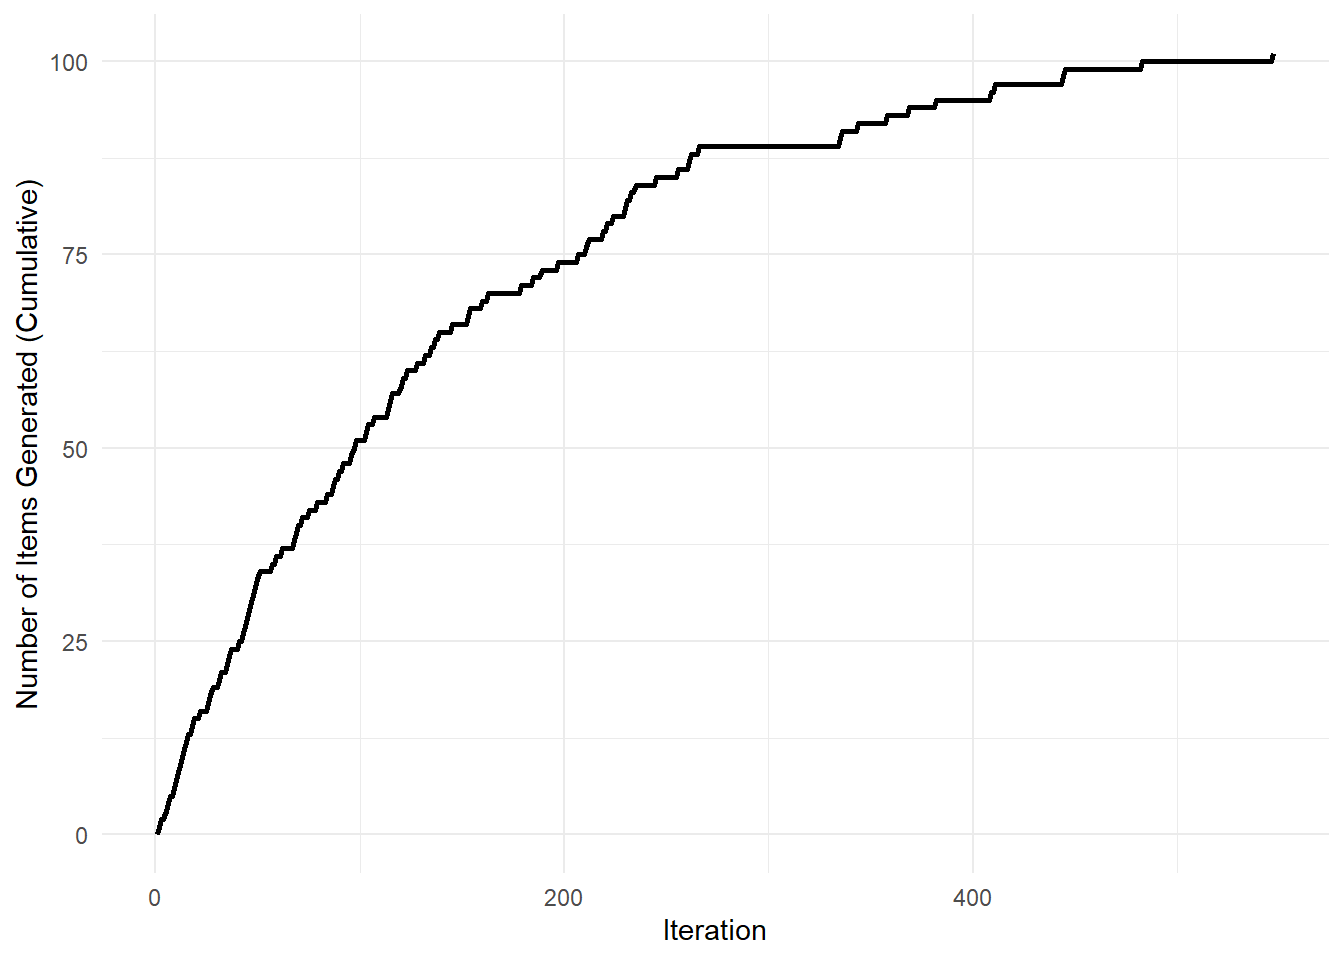
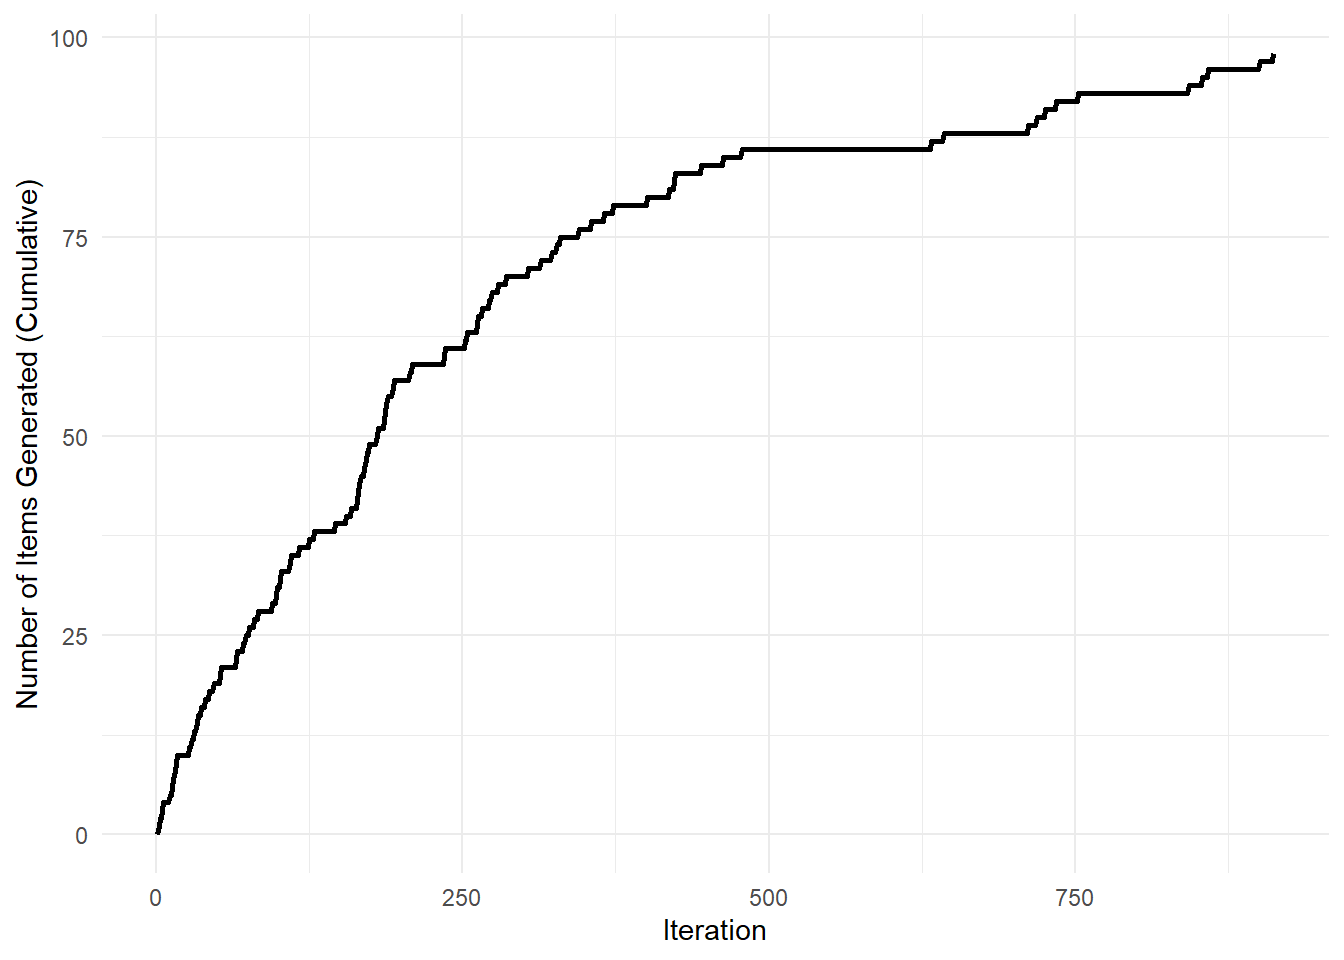
re-render

diff --git a/docs/the-generate-pipeline.html b/docs/the-generate-pipeline.html
@@ -24,7 +24,7 @@
 <meta name="author" content="Jack Taylor" />
 
 
-<meta name="date" content="2021-02-02" />
+<meta name="date" content="2021-02-22" />
 
   <meta name="viewport" content="width=device-width, initial-scale=1" />
   <meta name="apple-mobile-web-app-capable" content="yes" />
@@ -638,9 +638,9 @@ Figure 2.2: The results of the <code>plot_sample()</code> function for the gener
 <span id="cb8-4"><a href="the-generate-pipeline.html#cb8-4"></a><span class="st">  </span><span class="kw">split_by</span>(BG.SUBTLEX_UK, <span class="dv">0</span><span class="op">:</span><span class="fl">0.003</span> <span class="op">~</span><span class="st"> </span><span class="fl">0.009</span><span class="op">:</span><span class="fl">0.013</span>) <span class="op">%&gt;%</span></span>
 <span id="cb8-5"><a href="the-generate-pipeline.html#cb8-5"></a><span class="st">  </span><span class="kw">control_for</span>(Length, <span class="dv">0</span><span class="op">:</span><span class="dv">0</span>) <span class="op">%&gt;%</span></span>
 <span id="cb8-6"><a href="the-generate-pipeline.html#cb8-6"></a><span class="st">  </span><span class="kw">control_for</span>(Zipf.SUBTLEX_UK, <span class="fl">-0.2</span><span class="op">:</span><span class="fl">0.2</span>) <span class="op">%&gt;%</span></span>
-<span id="cb8-7"><a href="the-generate-pipeline.html#cb8-7"></a><span class="st">  </span><span class="kw">generate</span>(<span class="dt">n =</span> <span class="st">&quot;all&quot;</span>, <span class="dt">match_null =</span> <span class="st">&quot;random&quot;</span>)</span></code></pre></div>
-<p>This is much slower, as LexOPS will continue trying to generate combinations of words that fit the specified characteristics until it has exhausted all the possibilities. Nevertheless, we actually generated 101 words generated per condition with the code above. This number is likely to change slightly each time we run the pipeline, as different combinations are randomly made from all the possible combinations. That said, it is a fairly good <em>indication</em> of the number of possible stimuli we could generate.</p>
-<p>The 101 words we’ve managed to generate per condition here is quite a bit higher than the 25 we originally generated. Does this mean we should just request a larger stimulus list, such as <code>n = 80</code>, or even <code>n = 100</code>? Well, it depends. If we want as many stimuli as are possible, then it may make sense to just set <code>n = "all"</code>, but often we only want to use as many stimuli as we need to find our effect. Also, if we use as many combinations as possible, experimenters who want to replicate our effect using a different set of stimuli will likely have fewer novel combinations available to them.</p>
+<span id="cb8-7"><a href="the-generate-pipeline.html#cb8-7"></a><span class="st">  </span><span class="kw">generate</span>(<span class="dt">n =</span> <span class="st">&quot;all&quot;</span>, <span class="dt">match_null =</span> <span class="st">&quot;inclusive&quot;</span>)</span></code></pre></div>
+<p>This is much slower, as LexOPS will continue trying to generate combinations of words that fit the specified characteristics until it has exhausted all the possibilities. Nevertheless, we actually generated 98 words generated per condition with the code above. This number is likely to change slightly each time we run the pipeline, as different combinations are randomly made from all the possible combinations. That said, it is a fairly good <em>indication</em> of the number of possible stimuli we could generate.</p>
+<p>The 98 words we’ve managed to generate per condition here is quite a bit higher than the 25 we originally generated. Does this mean we should just request a larger stimulus list, such as <code>n = 80</code>, or even <code>n = 100</code>? Well, it depends. If we want as many stimuli as are possible, then it may make sense to just set <code>n = "all"</code>, but often we only want to use as many stimuli as we need to find our effect. Also, if we use as many combinations as possible, experimenters who want to replicate our effect using a different set of stimuli will likely have fewer novel combinations available to them.</p>
 <div class="danger">
 <p>
 Note that when <code>n = “all”</code>, you will get a warning if you also keep the default match null setting, <code>match_null = “balanced”</code>. The reason for this is explained in <a href="faq.html#what-is-a-match-null">this FAQ section</a>.

diff --git a/docs/index.html b/docs/index.html
@@ -24,7 +24,7 @@
 <meta name="author" content="Jack Taylor" />
 
 
-<meta name="date" content="2021-02-02" />
+<meta name="date" content="2021-02-22" />
 
   <meta name="viewport" content="width=device-width, initial-scale=1" />
   <meta name="apple-mobile-web-app-capable" content="yes" />
@@ -222,7 +222,7 @@ code span.wa { color: #60a0b0; font-weight: bold; font-style: italic; } /* Warni
 <div id="header">
 <h1 class="title">LexOPS Walkthrough</h1>
 <p class="author"><em>Jack Taylor</em></p>
-<p class="date"><em>2021-02-02</em></p>
+<p class="date"><em>2021-02-22</em></p>
 </div>
 <div id="overview" class="section level1 unnumbered">
 <h1>Overview</h1>

diff --git a/docs/advanced-matching.html b/docs/advanced-matching.html
@@ -24,7 +24,7 @@
 <meta name="author" content="Jack Taylor" />
 
 
-<meta name="date" content="2021-02-02" />
+<meta name="date" content="2021-02-22" />
 
   <meta name="viewport" content="width=device-width, initial-scale=1" />
   <meta name="apple-mobile-web-app-capable" content="yes" />

diff --git a/docs/faq.html b/docs/faq.html
@@ -24,7 +24,7 @@
 <meta name="author" content="Jack Taylor" />
 
 
-<meta name="date" content="2021-02-02" />
+<meta name="date" content="2021-02-22" />
 
   <meta name="viewport" content="width=device-width, initial-scale=1" />
   <meta name="apple-mobile-web-app-capable" content="yes" />

diff --git a/docs/introduction.html b/docs/introduction.html
@@ -24,7 +24,7 @@
 <meta name="author" content="Jack Taylor" />
 
 
-<meta name="date" content="2021-02-02" />
+<meta name="date" content="2021-02-22" />
 
   <meta name="viewport" content="width=device-width, initial-scale=1" />
   <meta name="apple-mobile-web-app-capable" content="yes" />

diff --git a/docs/lexops-shiny-app.html b/docs/lexops-shiny-app.html
@@ -24,7 +24,7 @@
 <meta name="author" content="Jack Taylor" />
 
 
-<meta name="date" content="2021-02-02" />
+<meta name="date" content="2021-02-22" />
 
   <meta name="viewport" content="width=device-width, initial-scale=1" />
   <meta name="apple-mobile-web-app-capable" content="yes" />

diff --git a/docs/matching-individual-items.html b/docs/matching-individual-items.html
@@ -24,7 +24,7 @@
 <meta name="author" content="Jack Taylor" />
 
 
-<meta name="date" content="2021-02-02" />
+<meta name="date" content="2021-02-22" />
 
   <meta name="viewport" content="width=device-width, initial-scale=1" />
   <meta name="apple-mobile-web-app-capable" content="yes" />

diff --git a/docs/vignettes.html b/docs/vignettes.html
@@ -24,7 +24,7 @@
 <meta name="author" content="Jack Taylor" />
 
 
-<meta name="date" content="2021-02-02" />
+<meta name="date" content="2021-02-22" />
 
   <meta name="viewport" content="width=device-width, initial-scale=1" />
   <meta name="apple-mobile-web-app-capable" content="yes" />

diff --git a/docs/02-generate.md b/docs/02-generate.md
@@ -182,12 +182,12 @@ possible_stim <- LexOPS::lexops %>%
   split_by(BG.SUBTLEX_UK, 0:0.003 ~ 0.009:0.013) %>%
   control_for(Length, 0:0) %>%
   control_for(Zipf.SUBTLEX_UK, -0.2:0.2) %>%
-  generate(n = "all", match_null = "random")
+  generate(n = "all", match_null = "inclusive")
 ```
 
-This is much slower, as LexOPS will continue trying to generate combinations of words that fit the specified characteristics until it has exhausted all the possibilities. Nevertheless, we actually generated 101 words generated per condition with the code above. This number is likely to change slightly each time we run the pipeline, as different combinations are randomly made from all the possible combinations. That said, it is a fairly good *indication* of the number of possible stimuli we could generate.
+This is much slower, as LexOPS will continue trying to generate combinations of words that fit the specified characteristics until it has exhausted all the possibilities. Nevertheless, we actually generated 98 words generated per condition with the code above. This number is likely to change slightly each time we run the pipeline, as different combinations are randomly made from all the possible combinations. That said, it is a fairly good *indication* of the number of possible stimuli we could generate.
 
-The 101 words we've managed to generate per condition here is quite a bit higher than the 25 we originally generated. Does this mean we should just request a larger stimulus list, such as `n = 80`, or even `n = 100`? Well, it depends. If we want as many stimuli as are possible, then it may make sense to just set `n = "all"`, but often we only want to use as many stimuli as we need to find our effect. Also, if we use as many combinations as possible, experimenters who want to replicate our effect using a different set of stimuli will likely have fewer novel combinations available to them.
+The 98 words we've managed to generate per condition here is quite a bit higher than the 25 we originally generated. Does this mean we should just request a larger stimulus list, such as `n = 80`, or even `n = 100`? Well, it depends. If we want as many stimuli as are possible, then it may make sense to just set `n = "all"`, but often we only want to use as many stimuli as we need to find our effect. Also, if we use as many combinations as possible, experimenters who want to replicate our effect using a different set of stimuli will likely have fewer novel combinations available to them.
 
 <div class="danger">
 <p>Note that when <code>n = "all"</code>, you will get a warning if you also keep the default match null setting, <code>match_null = "balanced"</code>. The reason for this is explained in <a href="faq.html#what-is-a-match-null">this FAQ section</a>.</p>

diff --git a/docs/index.md b/docs/index.md
@@ -1,7 +1,7 @@
 --- 
 title: "LexOPS Walkthrough"
 author: "Jack Taylor"
-date: "2021-02-02"
+date: "2021-02-22"
 site: bookdown::bookdown_site
 documentclass: book
 bibliography: [book.bib, packages.bib]
